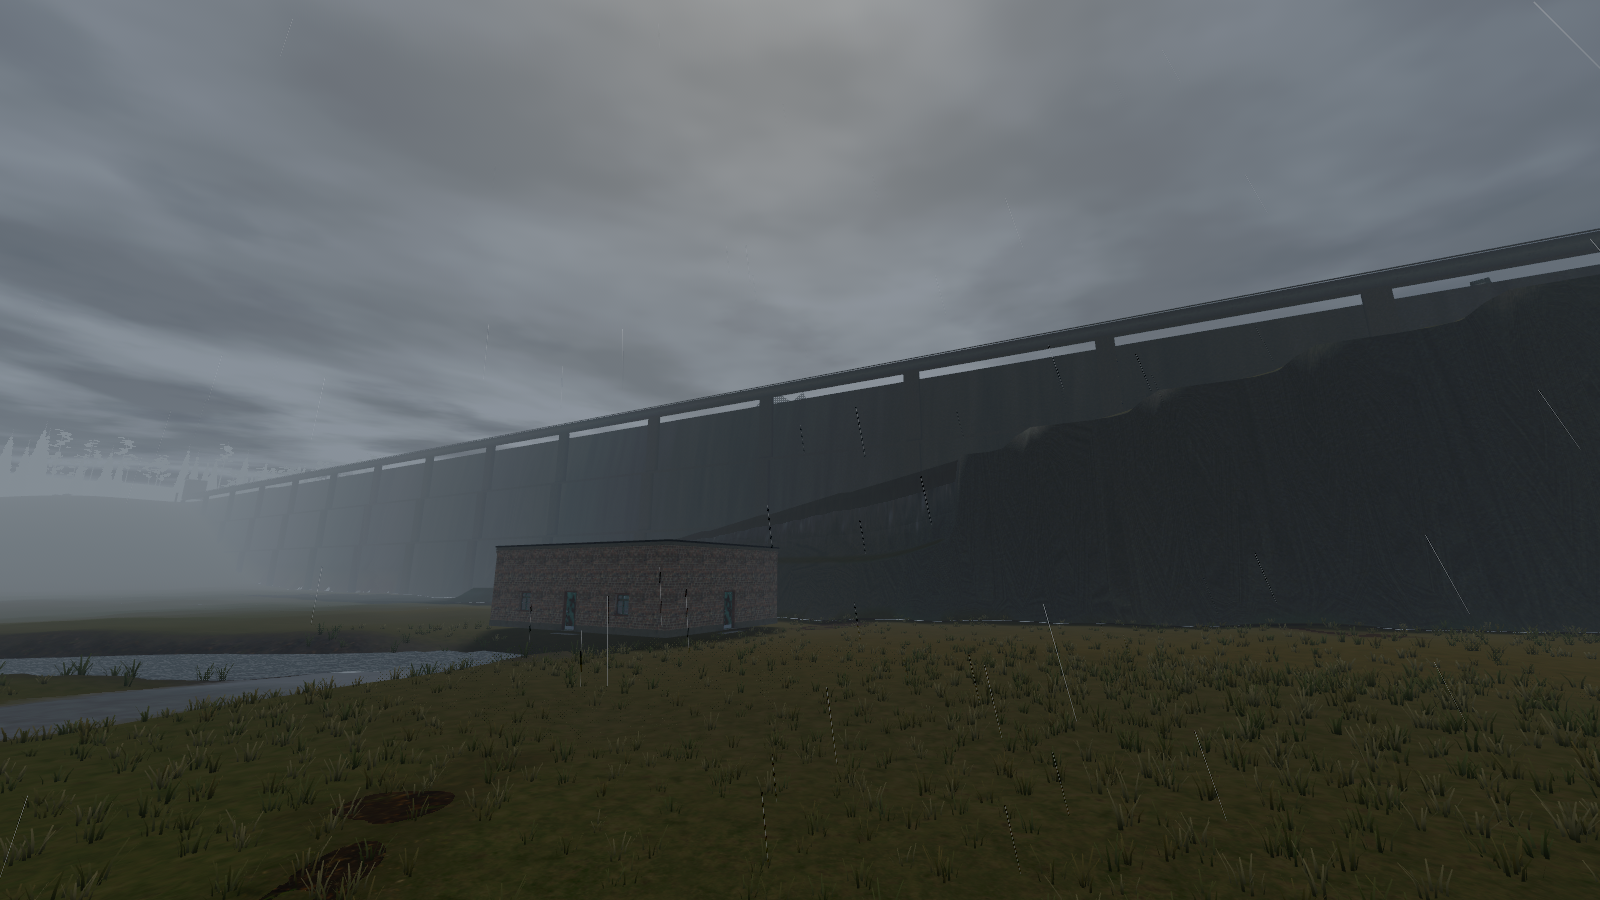
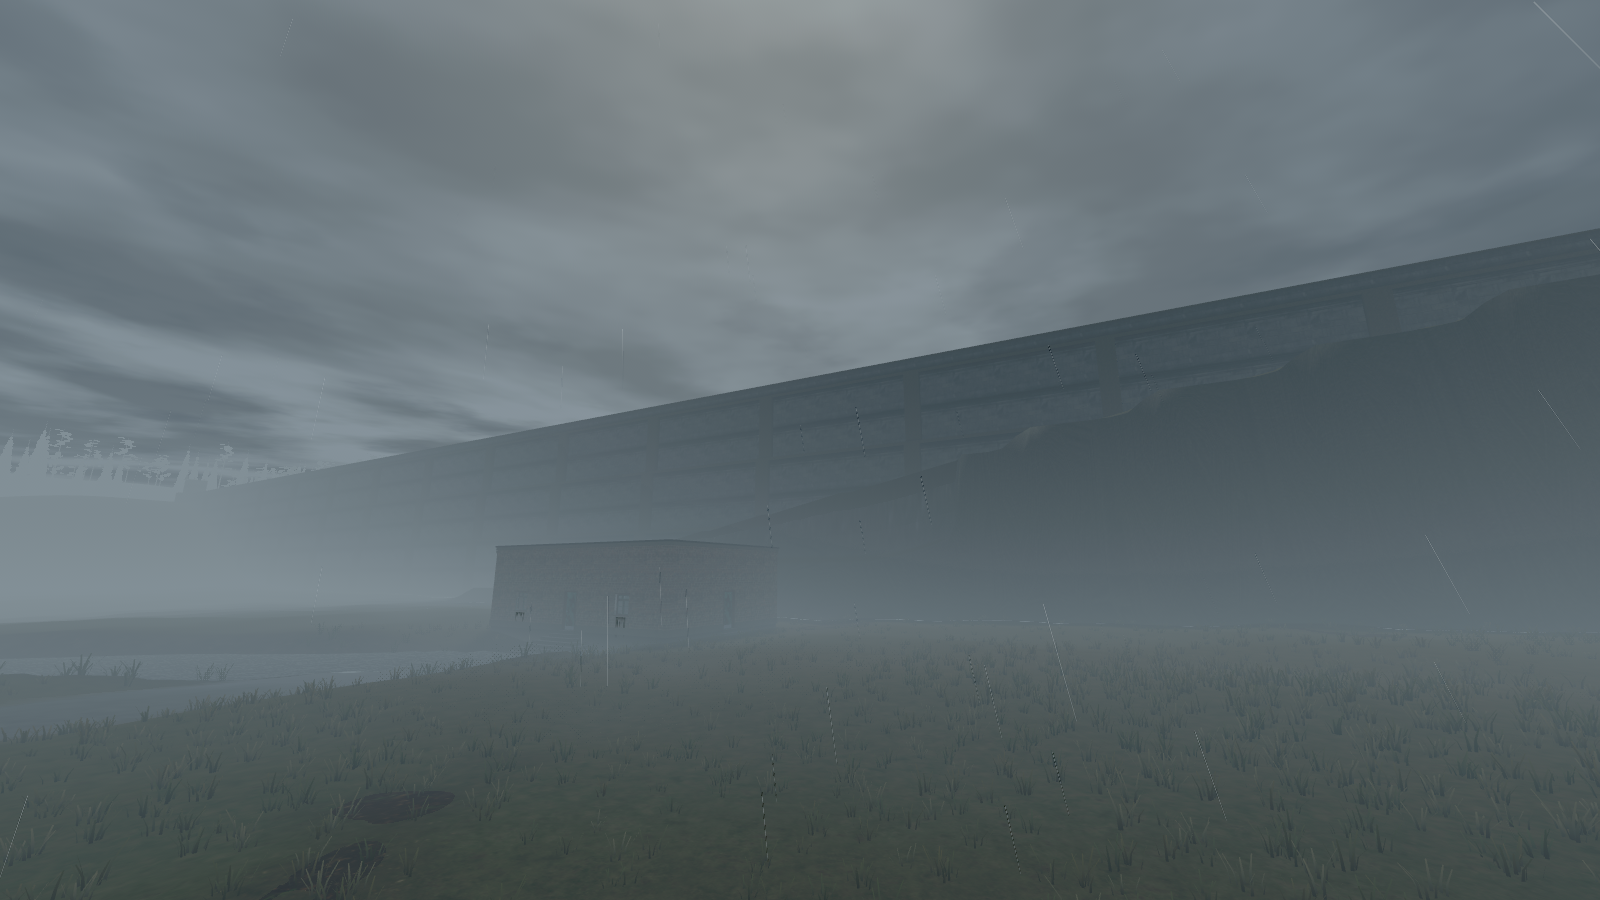
Sallow: Old Sallow drowned, the dam in dressed stone; tools and a guide for the next valley
World models' drowned houses and chapel replace Old Sallow's shelled
ruins and bare church tower (silted to the sills, roofless, a tide
line), and the dam's faces and the draw-off tower are DressedStone now.
The churchyard mirror moves off the chapel's footprint. Lint clean.

The helpers Sallow was built with are scripts now: map_ramp.py lays
the terrace flights a road climbs, map_probe.py reads a dump's height,
slope and water at points and draws slope the way the lint's grids see
it. docs/FOURTH_VALLEY.md gains "Building a valley": everything a new
valley touches, the loop, and what bit, for the fifth valley's session.

Claude-Session: https://claude.ai/code/session_01EfrkLDw7bYgJDycJjJ7Vdc

diff --git a/src/world/dam.rs b/src/world/dam.rs
@@ -76,7 +76,7 @@ fn face(b: &mut Builder, len: f32, turrets: bool) {
         b.bx(
             Vec3::new(len, y1 - y0, t),
             Vec3::new(0.0, (y0 + y1) * 0.5, -2.0 + t * 0.5),
-            Mat::Concrete,
+            Mat::DressedStone,
         );
         // Its coping: a string course a hand proud of the face.
         b.deco(
@@ -104,7 +104,7 @@ fn face(b: &mut Builder, len: f32, turrets: bool) {
     b.bx(
         Vec3::new(len, ph, pt),
         Vec3::new(0.0, FACE_H + ph * 0.5, pz),
-        Mat::Concrete,
+        Mat::DressedStone,
     );
     b.deco(
         Vec3::new(len + 0.1, 0.12, pt + 0.2),
@@ -128,7 +128,7 @@ fn face(b: &mut Builder, len: f32, turrets: bool) {
             b.bx(
                 Vec3::new(w, h, w),
                 Vec3::new(x, FACE_H + h * 0.5, pz - 0.9),
-                Mat::Concrete,
+                Mat::DressedStone,
             );
             b.piece(
                 Shape::Prism(Vec3::new(w + 0.4, 1.6, w + 0.4)),
@@ -150,7 +150,7 @@ fn back(b: &mut Builder, len: f32, gap: Option<f32>) {
     b.bx(
         Vec3::new(len, BACK_H, 3.0),
         Vec3::new(0.0, BACK_H * 0.5, 0.0),
-        Mat::Concrete,
+        Mat::DressedStone,
     );
     // Where the water stood: the stained skin, a tide line along its top.
     b.deco(
@@ -173,7 +173,7 @@ fn back(b: &mut Builder, len: f32, gap: Option<f32>) {
         b.bx(
             Vec3::new(c - a, ph, pt),
             Vec3::new((a + c) * 0.5, BACK_H + ph * 0.5, pz),
-            Mat::Concrete,
+            Mat::DressedStone,
         );
         b.deco(
             Vec3::new(c - a + 0.1, 0.12, pt + 0.2),
@@ -206,7 +206,7 @@ fn tower(b: &mut Builder) {
             b.bx(
                 Vec3::new(side, 2.4, t),
                 Vec3::new(x, y0 + 1.2, z),
-                Mat::Concrete,
+                Mat::DressedStone,
             );
         }
     };
@@ -218,21 +218,21 @@ fn tower(b: &mut Builder) {
             b.bx(
                 Vec3::new(w, doorway, t),
                 Vec3::new(0.0, doorway * 0.5, z),
-                Mat::Concrete,
+                Mat::DressedStone,
             );
         }
         let top = doorway + 2.4;
         b.bx(
             Vec3::new(w, h - top, t),
             Vec3::new(0.0, (top + h) * 0.5, z),
-            Mat::Concrete,
+            Mat::DressedStone,
         );
     }
     for x in [-hw + t * 0.5, hw - t * 0.5] {
         b.bx(
             Vec3::new(t, h, w - 2.0 * t),
             Vec3::new(x, h * 0.5, 0.0),
-            Mat::Concrete,
+            Mat::DressedStone,
         );
     }
     // Slits of light up the walls (dark glass, visual only), and a band

diff --git a/scripts/map_ramp.py b/scripts/map_ramp.py
@@ -1,0 +1,56 @@
+#!/usr/bin/env python3
+"""Print a flight of terrace plateaus that make a ramp the land can't give.
+
+Roads in a map follow the terrain (graded over their `smoothing`), so a
+road can't climb a cliff by itself. Lay this flight under it and the
+road's own grading evens the steps into a slope a body walks; off the
+road they read as steps (Sallow Reservoir's face stair, spillway and the
+roads into New Sallow, docs/FOURTH_VALLEY.md).
+
+    scripts/map_ramp.py NAME H0 H1 STEP WIDTH x,z x,z ...
+
+From height H0 at the polyline's start to H1 at its end, one terrace
+every STEP metres of arc, WIDTH wide. Paste the output into the map's
+`features`, after any plateau it must override (later plateaus win).
+Start H0 at the ground's height where the road meets it (scripts/
+map_probe.py), give the road at least the flight's width plus its
+shoulders, and a `smoothing` of about the step length: a route needs
+every 2 m nav cell under 16 degrees.
+"""
+import math
+import sys
+
+
+def main():
+    if len(sys.argv) < 8:
+        sys.exit(__doc__)
+    name, h0, h1, step, width = sys.argv[1], *map(float, sys.argv[2:6])
+    pts = [tuple(map(float, a.split(","))) for a in sys.argv[6:]]
+    seg = list(zip(pts, pts[1:]))
+    lens = [math.dist(a, b) for a, b in seg]
+    total = sum(lens)
+    n = max(1, round(total / step))
+
+    def at(s):
+        for (a, b), l in zip(seg, lens):
+            if s <= l or (a, b) == seg[-1]:
+                t = min(s / l, 1.0)
+                d = ((b[0] - a[0]) / l, (b[1] - a[1]) / l)
+                return (a[0] + d[0] * l * t, a[1] + d[1] * l * t), d
+            s -= l
+
+    print(f"        // {name}: {n} terraces, {h0:.1f} to {h1:.1f} over {total:.0f} m.")
+    w = width / 2
+    for k in range(n):
+        (p0, d0), (p1, d1) = at(total * k / n), at(total * (k + 1) / n)
+        h = h0 + (h1 - h0) * (k + 1) / n
+        side = lambda p, d, s: (p[0] - d[1] * w * s, p[1] + d[0] * w * s)
+        # Overlap the next terrace by half a metre so no gap opens.
+        p1 = (p1[0] + d1[0] * 0.5, p1[1] + d1[1] * 0.5)
+        poly = [side(p0, d0, 1), side(p1, d1, 1), side(p1, d1, -1), side(p0, d0, -1)]
+        s = ", ".join(f"({x:.1f}, {z:.1f})" for x, z in poly)
+        print(f"        Plateau(polygon: [{s}], height: Some({h:.2f}), blend: 2.5),")
+
+
+if __name__ == "__main__":
+    main()

diff --git a/scripts/map_probe.py b/scripts/map_probe.py
@@ -1,0 +1,59 @@
+#!/usr/bin/env python3
+"""Ask a built map what it is where: ground height, slope, water.
+
+    scripts/map_probe.py <dump-dir> [name=]x,z ...
+    scripts/map_probe.py <dump-dir> --slope x0,z0,x1,z1 out.png
+
+`<dump-dir>` is what `map-dump` writes (scripts/map-preview.sh makes it
+under target/preview/<map>). The first form prints each point's height,
+slope in degrees and water depth; the second draws the slope over a box
+the way the lint's grids see it: dark green walkable, olive over 12
+degrees, yellow over 16 (no main route), orange over 25 (not
+comfortable), red over 32 (walkers stop); roads under 16 in blue. Most
+of a valley's grade and choice findings are easiest read off it.
+"""
+import os
+import sys
+
+import numpy as np
+
+
+def load(d, name):
+    a = np.fromfile(os.path.join(d, name), dtype="<f4")
+    n = int(round(len(a) ** 0.5))
+    return a.reshape(n, n)
+
+
+def main():
+    if len(sys.argv) < 3:
+        sys.exit(__doc__)
+    d = sys.argv[1]
+    h, w, s = load(d, "height.f32"), load(d, "water.f32"), load(d, "slope.f32")
+    half = (h.shape[0] - 1) / 2
+    if sys.argv[2] == "--slope":
+        from PIL import Image
+
+        x0, z0, x1, z1 = map(float, sys.argv[3].split(","))
+        r = load(d, "roads.f32")
+        img = np.zeros(s.shape + (3,), np.uint8)
+        img[...] = (30, 70, 30)
+        for lim, col in [(12, (150, 150, 0)), (16, (255, 200, 0)), (25, (255, 80, 0)),
+                         (32, (255, 0, 0))]:
+            img[s > lim] = col
+        img[(r > 0) & (s <= 16)] = (120, 120, 255)
+        c = img[int(z0 + half):int(z1 + half), int(x0 + half):int(x1 + half)]
+        k = max(1, int(800 / max(c.shape[:2])))
+        Image.fromarray(c).resize((c.shape[1] * k, c.shape[0] * k), Image.NEAREST).save(sys.argv[4])
+        return
+    for a in sys.argv[2:]:
+        name, _, xz = a.rpartition("=")
+        x, z = map(float, xz.split(","))
+        i, j = int(round(x + half)), int(round(z + half))
+        wet = ""
+        if not np.isnan(w[j, i]) and w[j, i] > h[j, i]:
+            wet = f"water {w[j, i]:.2f} (depth {w[j, i] - h[j, i]:.2f})"
+        print(f"{name:14} ({x:6.0f},{z:6.0f}) h {h[j, i]:6.2f} slope {s[j, i]:4.1f} {wet}")
+
+
+if __name__ == "__main__":
+    main()

diff --git a/docs/FOURTH_VALLEY.md b/docs/FOURTH_VALLEY.md
@@ -256,6 +256,84 @@ the gauge house and out: 262 s.
   World models' masonry material and drowned ruins, Underground's
   inspection gallery.
 
+## Building a valley: how Sallow was made (for the next one)
+
+What it took, in order, and what bit. Map design's rules and lint
+(`docs/MAP_DESIGN.md`) are the standard; this is the practice.
+
+### Everything a new valley touches
+
+- `assets/maps/<id>.ron`. The truck's route card lists every map file but
+  the yard, so it's offered as soon as it exists (Progression gates late
+  valleys: `progression::LATE_VALLEYS`).
+- `extraction_core::map`: its text constant, its row in `map::VALLEYS`
+  (a test holds the list to `assets/maps`), a `*_parses_and_builds` test
+  of what makes it itself; `map_lint`: its `*_passes_the_map_lint` test.
+- New prefabs: footprints in `map::prefab_footprint` (unlisted ones are a
+  4 x 3 x 4 blockout, and the nav grid blocks by footprint), geometry in a
+  module hooked into `buildings::prefab` (Sallow's: `world::dam`), its own
+  sound/footprint/model tests; models in `art/props/<name>.py`, clean
+  under `art/check.py`, a row in `docs/ASSETS.md`.
+- Owners who key things by map name or id: Visual design (fog, grade,
+  terrain), Audio (the `sounds` block, echoes), Anomalies (a Well, a
+  Mirror and a Hush in every valley, held by their test), Story
+  (`scripts/place_notes.py` writes the notes), Progression (gate, jobs),
+  Wildlife (species), Underground (a site), Performance (a
+  `scripts/lookbook/<id>.views` and a `*_holds_the_budget` test).
+- A crossing: `--scenario crossing --map <id>`.
+
+### The loop
+
+```bash
+cargo build --release -p extraction_core --bin map-dump
+scripts/map-preview.sh <id>                     # findings drawn on, routes
+python3 scripts/map_probe.py target/preview/<id> crest=0,140 bed=0,0
+python3 scripts/map_probe.py target/preview/<id> --slope x0,z0,x1,z1 out.png
+python3 scripts/map_ramp.py "Face stair" 30 52 8 6 -30,154 90,154
+target/fast/extraction --sim 8 --map <id> --jobs 2 --seed N; scripts/sim-report.sh <id>
+```
+
+Lint to clean on the dump first (seconds a round), then sims (40
+minutes a batch of eight), then screenshots.
+
+### What bit
+
+- **Roads follow the land.** A road's grade is the terrain under it,
+  averaged over `smoothing`; it won't climb a cliff, and a hairpin's legs
+  sit at their own ground's heights. Make the land a ramp:
+  `scripts/map_ramp.py` lays terraces under the road.
+- **A main route needs every 2 m cell under 16 degrees**, not 16 over
+  10 m: a road narrower than the step edges beside it fails. Give ramped
+  roads width and shoulder.
+- **Choice blocks the corridor on that same 16-degree grid.** Two
+  crossings of a dam (or a creek) that meet before the last 90 m count
+  as one way: Sallow needed a third crossing and a high path (the
+  catchwater) before every rendezvous had two ways. A creek's banks over
+  16 degrees wall a basin off for it (Sallow's old river had to go broad
+  and shallow).
+- **Plateaus come after channels and hills**, and in the order listed:
+  a plateau's blend erases a channel cut next to it, and the later of
+  two overlapping plateaus wins.
+- **Water's level is the lowest bed across the strip plus `depth`,
+  smoothed over 12 m**, and it fills up to `width / 2 + 2` m from the
+  line wherever that's under the level. For a lake, flatten its bed with
+  a plateau, or the level follows the bed; keep the strip off anything
+  lower nearby (Sallow's causeway holds the arm 8 m above the bed).
+- **Where two roads meet at different heights there's a step**; a road
+  that ends on another road should join it at its height.
+- **The truck appears on the rendezvous marker**; walking onto it before
+  it comes leaves you inside it. Stop short (the crossing does).
+- **`absolute` placements skip pads, the fit gauge and the water lint**:
+  what the dam faces and the tower are; what a drowned house in water
+  would be.
+- **The sims go where the loot is, by the building.** `choose_site`
+  weighs a building by its spots times its region's richness over
+  distance: a street of full houses at danger 2 pulled every bot past
+  danger-3 open ground. Ruins hold next to nothing. Count loot spots
+  where you want traffic, and read the never-visited list.
+- **A test that hand-lists valleys doesn't check yours.** Use
+  `map::VALLEYS`.
+
 ## Status
 
 Whitebox lint clean, sims iterated, the dam, tower and stock built
